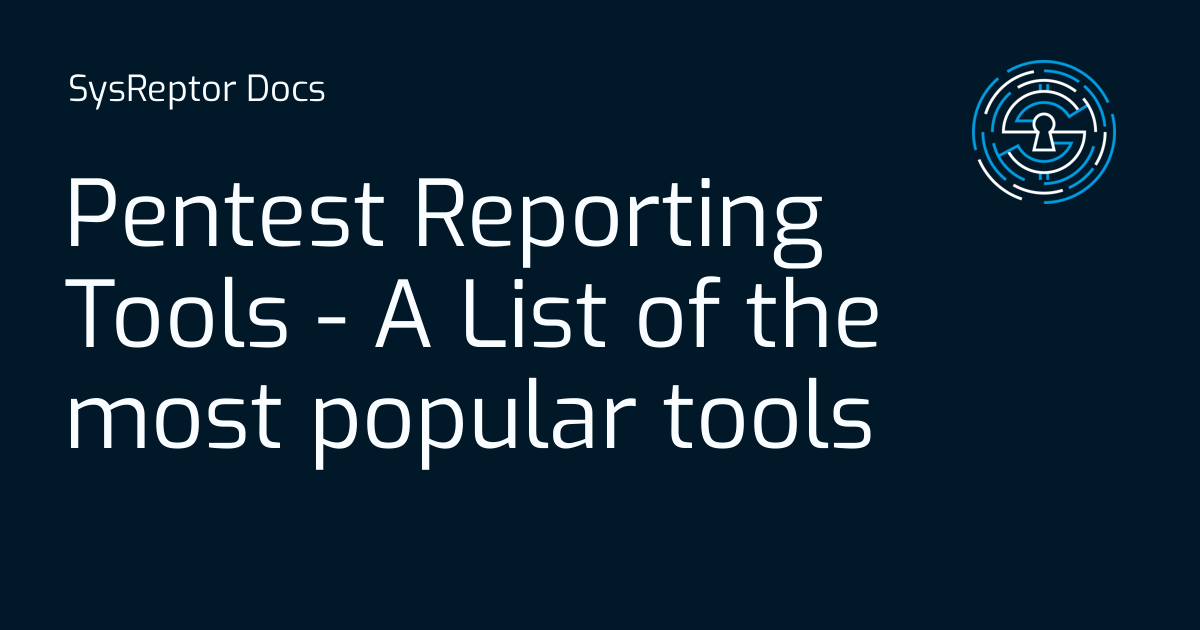
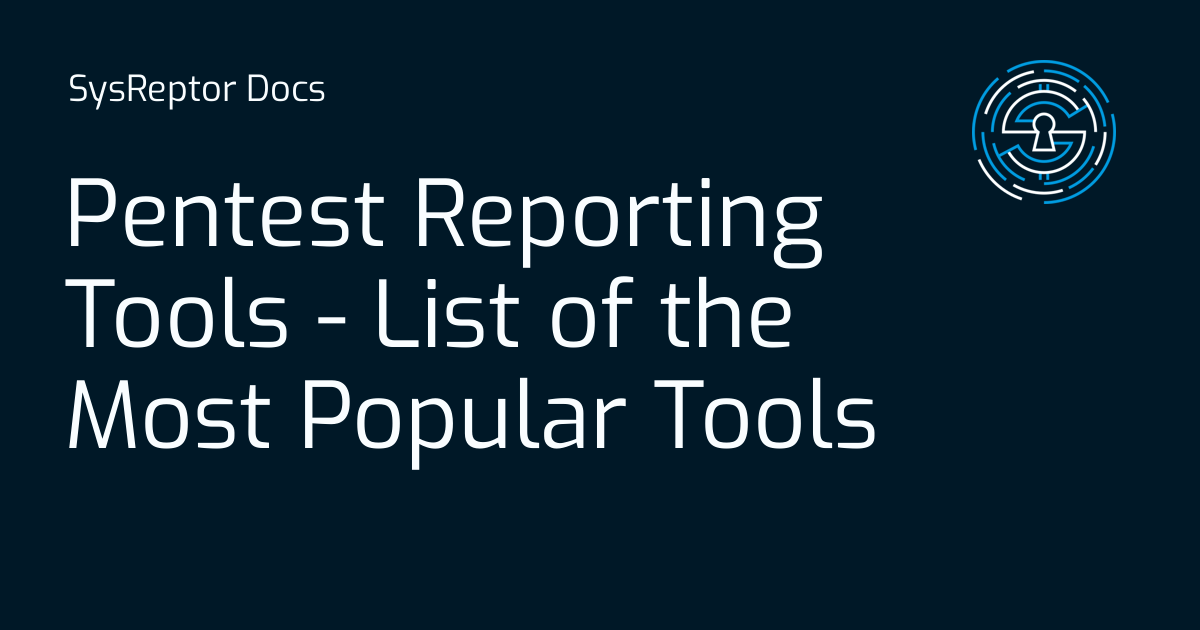
Deployed 0cdf656 with MkDocs version: 1.3.1

Changed region(s): [[0.3083, 0.4222, 0.74, 0.573], [0.0617, 0.6032, 0.5242, 0.754], [0.5242, 0.6032, 0.74, 0.7238]]

diff --git a/s/pentest-reporting-tools/index.html b/s/pentest-reporting-tools/index.html
@@ -19,7 +19,7 @@
     
     
       
-        <title>Pentest Reporting Tools - A List of the most popular tools - SysReptor Docs</title>
+        <title>Pentest Reporting Tools - List of the Most Popular Tools - SysReptor Docs</title>
       
     
     
@@ -56,7 +56,7 @@
       
         <meta  property="og:type"  content="website" >
       
-        <meta  property="og:title"  content="Pentest Reporting Tools - A List of the most popular tools - SysReptor Docs" >
+        <meta  property="og:title"  content="Pentest Reporting Tools - List of the Most Popular Tools - SysReptor Docs" >
       
         <meta  property="og:description"  content="None" >
       
@@ -72,7 +72,7 @@
       
         <meta  name="twitter:card"  content="summary_large_image" >
       
-        <meta  name="twitter:title"  content="Pentest Reporting Tools - A List of the most popular tools - SysReptor Docs" >
+        <meta  name="twitter:title"  content="Pentest Reporting Tools - List of the Most Popular Tools - SysReptor Docs" >
       
         <meta  name="twitter:description"  content="None" >
       
@@ -97,7 +97,7 @@
     <div data-md-component="skip">
       
         
-        <a href="#pentest-reporting-tools-a-list-of-the-most-popular-tools" class="md-skip">
+        <a href="#pentest-reporting-tools-list-of-the-most-popular-tools" class="md-skip">
           Skip to content
         </a>
       
@@ -129,7 +129,7 @@
         <div class="md-header__topic" data-md-component="header-topic">
           <span class="md-ellipsis">
             
-              Pentest Reporting Tools - A List of the most popular tools
+              Pentest Reporting Tools - List of the Most Popular Tools
             
           </span>
         </div>
@@ -660,7 +660,7 @@
                   
 
 
-<h1 id="pentest-reporting-tools-a-list-of-the-most-popular-tools">Pentest Reporting Tools - A List of the most popular tools</h1>
+<h1 id="pentest-reporting-tools-list-of-the-most-popular-tools">Pentest Reporting Tools - List of the Most Popular Tools</h1>
 <p><br></p>
 <table>
 <thead>
